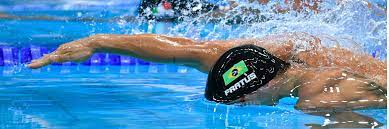
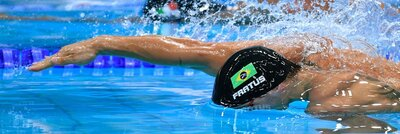
tamamhos imagens estilos agora dá para telemovel

diff --git a/estilos.html b/estilos.html
@@ -81,7 +81,7 @@
                 <h3>2. Costas</h3>
 
                 <figure style="text-align: center;">
-                    <img width="500" height="255" src="images/EstilosCostas.jpg" class="borBlueRad25">
+                    <img src="images/EstilosCostas.jpg" class="borBlueRad25">
                 </figure>
 
                 <p id="firstBig" style="text-align: justify;">
@@ -105,7 +105,7 @@
                 <h3>3. Bruços</h3>
 
                 <figure style="text-align: center;">
-                    <img src="images/EstilosBruços.jpg" class="borBlueRad25">
+                    <img src="images/EstilosBruços.png" class="borBlueRad25">
                 </figure>
 
                 <p id="firstBig" style="text-align: justify;">
@@ -128,7 +128,7 @@
                 <h3>4. Mariposa</h3>
 
                 <figure style="text-align: center;">
-                    <img width="500" height="255" src="images/EstilosMariposa.jpg" class="borBlueRad25">
+                    <img src="images/EstilosMariposa.jpg" class="borBlueRad25">
                 </figure>
 
                 <p id="firstBig" style="text-align: justify;">
